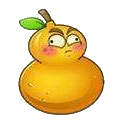
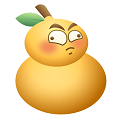
更新icon  更新首页通证增加lumi
1

diff --git a/acuibc-main/src/com/acuilab/bc/main/ui/MyStatusLinePrice.java b/acuibc-main/src/com/acuilab/bc/main/ui/MyStatusLinePrice.java
@@ -34,7 +34,8 @@ public class MyStatusLinePrice implements StatusLineElementProvider {
     private static final JLabel fluxPriceLbl = new JLabel();
     private static final JLabel itfPriceLbl = new JLabel();
     private static final JLabel poolgoPriceLbl = new JLabel();
-    private static final JLabel cwitPriceLbl = new JLabel();
+    private static final JLabel lumiPriceLbl = new JLabel();
+    //private static final JLabel cwitPriceLbl = new JLabel();
     private final JPanel panel = new JPanel(new BorderLayout());
     
     public MyStatusLinePrice() {
@@ -78,9 +79,13 @@ public class MyStatusLinePrice implements StatusLineElementProvider {
                 poolgoPriceLbl.setText(formatPrice(poolgoPrice) + " ");
                 poolgoPriceLbl.setToolTipText("PoolGo: " + poolgoPrice + "$");
                 
-                Double cwitPrice = PriceManager.getDefault().getPrice(Constants.CFX_BLOCKCHAIN_SYMBAL, Constants.CFX_CWIT_SYMBOL);
-                cwitPriceLbl.setText(formatPrice(cwitPrice) + " ");
-                cwitPriceLbl.setToolTipText("cWIT: " + cwitPrice + "$");
+                Double lumiPrice = PriceManager.getDefault().getPrice(Constants.CFX_BLOCKCHAIN_SYMBAL, Constants.CFX_LUMI_SYMBOL);
+                lumiPriceLbl.setText(formatPrice(lumiPrice) + " ");
+                lumiPriceLbl.setToolTipText("Lumi: " + lumiPrice + "$");
+                
+//                Double cwitPrice = PriceManager.getDefault().getPrice(Constants.CFX_BLOCKCHAIN_SYMBAL, Constants.CFX_CWIT_SYMBOL);
+//                cwitPriceLbl.setText(formatPrice(cwitPrice) + " ");
+//                cwitPriceLbl.setToolTipText("cWIT: " + cwitPrice + "$");
             }
         });
         t.start();
@@ -142,11 +147,11 @@ public class MyStatusLinePrice implements StatusLineElementProvider {
         poolgoPriceLbl.setForeground(Color.BLUE);
         pricePanel.add(poolgoPriceLbl);
         
-        JLabel cwitLbl = new JLabel("cWIT: ");
-        cwitLbl.setFont(new java.awt.Font("宋体", 1, 12));
-        pricePanel.add(cwitLbl);
-        cwitPriceLbl.setForeground(Color.BLUE);
-        pricePanel.add(cwitPriceLbl);
+        JLabel lumiLbl = new JLabel("Lumi: ");
+        lumiLbl.setFont(new java.awt.Font("宋体", 1, 12));
+        pricePanel.add(lumiLbl);
+        lumiPriceLbl.setForeground(Color.BLUE);
+        pricePanel.add(lumiPriceLbl);
         
         panel.add(pricePanel, BorderLayout.CENTER);
     }

diff --git a/acuibc-main/src/com/acuilab/bc/main/util/Constants.java b/acuibc-main/src/com/acuilab/bc/main/util/Constants.java
@@ -51,6 +51,7 @@ public class Constants {
         put("cfx:acgbjtsmfpex2mbn97dsygtkfrt952sp0psmh8pnvz", CFX_FLUX_SYMBOL);
         put("cfx:acc8599utu7nayj50w393eycznhv4e23g2ys6xmvf5", CFX_ITF_SYMBOL);
         put("cfx:acc8ya1f2a2bfphxg5ax7a8h29k47d5xsebxfj24nd", CFX_POOLGO_SYMBOL);
+        put("cfx:acbk7ugzw24jrjct9p4yz571x4e0agcffjzdkphen6", CFX_LUMI_SYMBOL);
     }};
     
 //    public static final Map<String, String> CFX_SYMBOL_ADDRESS_MAP = new HashMap<String, String>() {{

diff --git a/acuibc-main/src/resource/changelog/CHANGELOG.md b/acuibc-main/src/resource/changelog/CHANGELOG.md
@@ -5,6 +5,14 @@ All notable changes to this project will be documented in this file.
 The format is based on [Keep a Changelog](https://keepachangelog.com/en/1.0.0/),
 and this project adheres to [Semantic Versioning](https://semver.org/spec/v2.0.0.html).
 
+[^_^]:## [Unreleased]
+- 在公共节点外，增加宝葫芦自己的节点，菜单提供一个切换节点和自定义节点的选择项
+- 首页比价接口又没了，得再改
+- 导入时候如果同地址，则不新增一个账户
+- 很多dapp不响应的问题
+
+- 升级logo为高清版，鸣谢设计师X.BEI
+
 ## [0.9.33] - 20211108
 ### Changed
 - 适应近期Conflux主网环境
